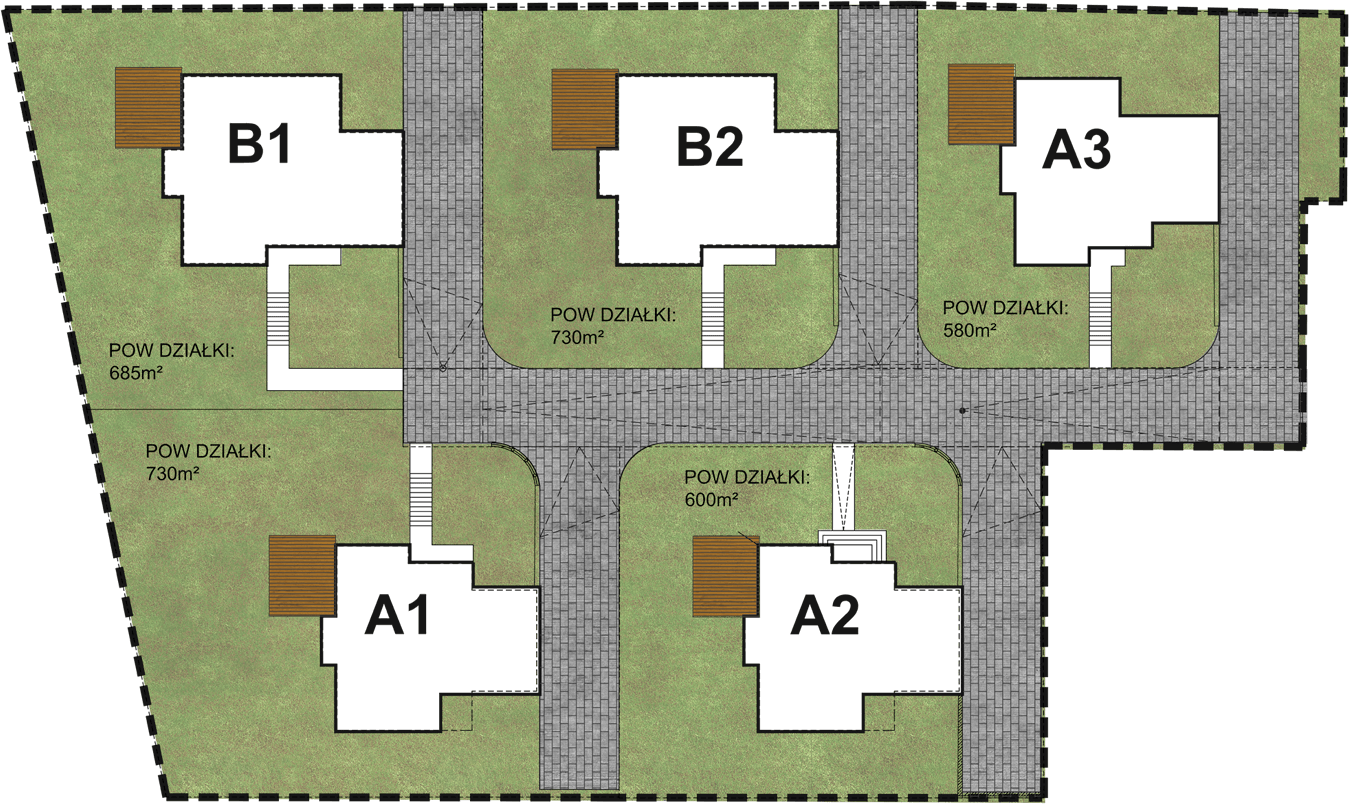
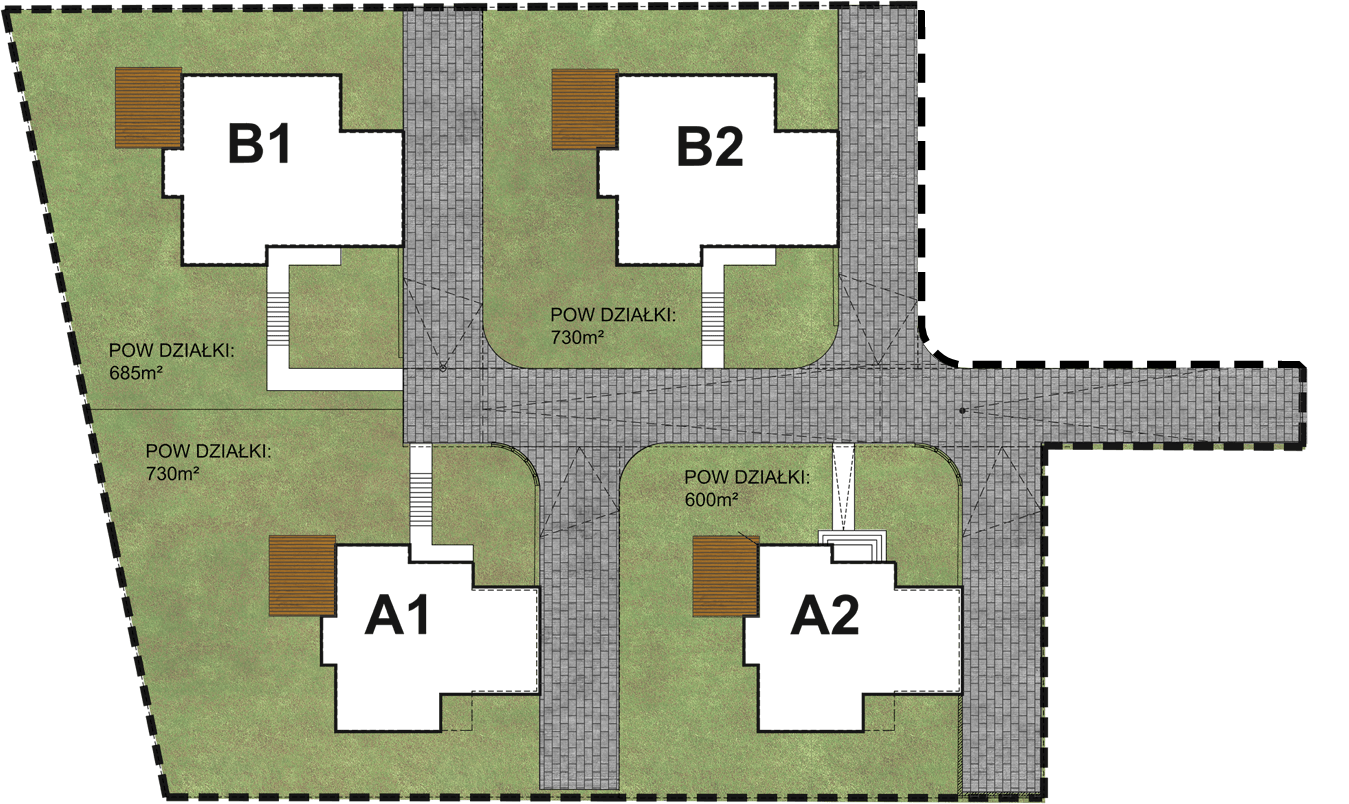
change image map

Changed region(s): [[0.6538, 0.0, 1.0, 0.4664]]

diff --git a/src/index.html b/src/index.html
@@ -181,20 +181,22 @@
       </div>
       <div class="description__text_container container shadow_container">
         <p class="description__text">
-          W najbardziej malowniczym zakątku Woli Justowskiej powstaje osiedle 5 domów jednorodzinnych. Domy położone są
-          na wzgórzu z pięknymi widokami na Kraków oraz okolicę. Dookoła zgodnie z obowiązującym planem zagospodarowania
-          zieleń niezorganizowana. Domy wybudowane są z najlepszych dostępnych na rynku materiałów. W dwóch domach
-          opcjonalnie (do decyzji Nabywców) baseny a w pozostałych jacuzzi.
+          W najbardziej malowniczym zakątku Woli Justowskiej powstaje osiedle 4 domów jednorodzinnych. Każdy z domów ma
+          wydzieloną ogrodzeniem działkę a cała Enklawa ma wspólny wjazd z drogą prowadząca do każdego domu. Domy
+          położone są na wzgórzu z pięknymi widokami na Kraków oraz okolicę. Dookoła górnych domów (A1 i B1) zgodnie z
+          obowiązującym planem zagospodarowania zieleń niezorganizowana. Domy wybudowane są z najlepszych dostępnych na
+          rynku materiałów. W dwóch domach opcjonalnie (do decyzji Nabywców) można wybudować baseny a w pozostałych
+          dwóch jacuzzi.
         </p>
         <p class="description__text">Podstawowe wyposażenie to m.in.:</p>
         <ul class="description__list">
-          <li class="description__list_item">rekuperację Thessla,</li>
-          <li class="description__list_item">klimatyzację,</li>
+          <li class="description__list_item">rekuperacja Thessla,</li>
+          <li class="description__list_item">klimatyzacja,</li>
           <li class="description__list_item">rolety zewnętrzne w oknach,</li>
           <li class="description__list_item">okna z pakietami 3 – szybowymi,</li>
           <li class="description__list_item">centralny odkurzacz,</li>
-          <li class="description__list_item">stację uzdatniania wody,</li>
-          <li class="description__list_item">ogrzewanie podłogowe gazowe w całym domu, w garażu grzejnik panelowy,</li>
+          <li class="description__list_item">stacja uzdatniania wody,</li>
+          <li class="description__list_item">ogrzewanie podłogowe wodne z piecem gazowym Vaillant,</li>
           <li class="description__list_item">system alarmowy,</li>
           <li class="description__list_item">monitoring z nagrywaniem,</li>
           <li class="description__list_item">videodomofon na każdym piętrze</li>
@@ -214,8 +216,8 @@
           xmlns:xlink="http://www.w3.org/1999/xlink"
           x="0px"
           y="0px"
-          viewBox="0 0 1080 643.677"
-          enable-background="new 0 0 1080 643.677"
+          viewBox="0 0 835.331 643.677"
+          enable-background="new 0 0 835.331 643.677"
           xml:space="preserve"
           class="image_map"
         >
@@ -223,7 +225,7 @@
             overflow="visible"
             width="1080"
             height="643.677"
-            xlink:href="./assets/map.png"
+            xlink:href="./assets/map.jpg"
             class="image_map__photo"
           ></image>
           <a xlink:href="./assets/rzutB.pdf" target="_blank">
@@ -232,8 +234,8 @@
               class="image_map__item image_map__item__sold"
               data-house-number="B1"
               fill="#FFFFFF"
-              points="144.192,58.427 273.211,58.427 273.211,103.109 322.641,103.109 322.641,198.337 
-214.287,198.337 214.287,212.58 144.192,212.58 144.192,158.682 128.833,158.682 128.833,117.351 144.192,117.351 "
+              points="147.543,57.082 275.342,57.082 275.342,101.342 324.304,101.342 324.304,195.669 
+              216.975,195.669 216.975,209.777 147.543,209.777 147.543,156.389 132.329,156.389 132.329,115.449 147.543,115.449 "
             />
           </a>
           <a xlink:href="./assets/rzutB.pdf" target="_blank">
@@ -242,8 +244,8 @@
               class="image_map__item"
               data-house-number="B2"
               fill="#FFFFFF"
-              points="492.581,58.427 622.061,58.427 622.061,103.269 671.666,103.269 671.666,198.836 
-	562.926,198.836 562.926,213.13 492.581,213.13 492.581,159.04 477.166,159.04 477.166,117.562 492.581,117.562 "
+              points="488.421,57.082 616.327,57.082 616.327,101.378 665.329,101.378 665.329,195.784 
+              557.911,195.784 557.911,209.904 488.421,209.904 488.421,156.472 473.194,156.472 473.194,115.498 488.421,115.498 "
             />
           </a>
           <a xlink:href="./assets/rzutA.pdf" target="_blank">
@@ -252,9 +254,9 @@
               class="image_map__item"
               data-house-number="A1"
               fill="#FFFFFF"
-              points="256,533.549 267.549,533.549 267.549,586.823 354.353,586.823 354.353,556.834 
-	433.334,556.834 433.334,468.166 379.873,468.166 379.873,448.607 329.579,448.607 329.393,435.01 267.549,435.01 267.548,492.382 
-	256,492.382 "
+              points="258.274,523.086 269.458,523.086 269.458,574.675 353.515,574.675 353.515,545.635 
+	429.997,545.635 429.997,459.772 378.228,459.772 378.228,440.832 329.525,440.832 329.345,427.665 269.458,427.665 
+	269.457,483.222 258.274,483.222 "
             />
           </a>
           <a xlink:href="./assets/rzutA.pdf" target="_blank">
@@ -263,20 +265,9 @@
               class="image_map__item"
               data-house-number="A2"
               fill="#FFFFFF"
-              points="593.667,533.446 605.322,533.446 605.322,587.207 692.917,587.207 692.917,556.943 
-	772.618,556.943 772.618,467.468 718.67,467.468 718.67,447.73 667.917,447.73 667.729,434.01 605.322,434.01 605.322,491.905 
-	593.667,491.905 "
-            />
-          </a>
-          <a xlink:href="./assets/rzutA.pdf" target="_blank">
-            <polygon
-              opacity="0.1"
-              class="image_map__item"
-              data-house-number="A3"
-              fill="#FFFFFF"
-              points="799.333,114.441 810.971,114.441 810.971,60.764 898.43,60.764 898.43,90.98 
-	978.008,90.98 978.008,180.317 924.142,180.317 924.142,200.023 873.468,200.023 873.281,213.724 810.971,213.724 810.971,155.918 
-	799.333,155.918 "
+              points="589.78,524.073 601.081,524.073 601.081,576.196 686.008,576.196 686.008,546.854 
+	763.281,546.854 763.281,460.104 710.977,460.104 710.977,440.968 661.769,440.968 661.587,427.665 601.081,427.665 
+	601.081,483.797 589.78,483.797 "
             />
           </a>
         </svg>
@@ -310,14 +301,6 @@
             <td>297 m2</td>
             <td>124 m2</td>
             <td>600 m2</td>
-            <td>Wolny</td>
-            <td><a href="./assets/rzutA.pdf" target="_blank">PDF</a></td>
-          </tr>
-          <tr class="main-table__row" data-house-number="A3">
-            <td>A3</td>
-            <td>297 m2</td>
-            <td>124 m2</td>
-            <td>580 m2</td>
             <td>Wolny</td>
             <td><a href="./assets/rzutA.pdf" target="_blank">PDF</a></td>
           </tr>
@@ -392,32 +375,32 @@
         <img
           class="gallery__photo photo_gallery__photo"
           src="./assets/malownicza enklawa zdjęcie 1.jpg"
-          alt="Wizualizacja przedstawiająca wygląd zewnętrzny domów inwestycji Malownicza Enklawa. Domy od strony dużego zielonego ogrodu z tarasem."
+          alt="Zdjęcie domu A1 z placu budowy."
         />
         <img
           class="gallery__photo photo_gallery__photo"
           src="./assets/malownicza enklawa zdjęcie 2.jpg"
-          alt="Wizualizacja przedstawiająca wygląd zewnętrzny domów inwestycji Malownicza Enklawa. Dom od strony garażu z podjazdem i ogrodzeniem"
+          alt="Zdjęcie domu A1 z placu budowy."
         />
         <img
           class="gallery__photo photo_gallery__photo"
           src="./assets/malownicza enklawa zdjęcie 3.jpg"
-          alt="Wizualizacja przedstawiająca wygląd zewnętrzny domów inwestycji Malownicza Enklawa. Dom od strony garażu z podjazdem i ogrodzeniem"
+          alt="Zdjęcie domu A1 z placu budowy."
         />
         <img
           class="gallery__photo photo_gallery__photo"
           src="./assets/malownicza enklawa zdjęcie 4.jpg"
-          alt="Wizualizacja przedstawiająca wygląd zewnętrzny domów inwestycji Malownicza Enklawa. Domy widziane z lotu ptaka, widoczne ogrody oraz podjazd."
+          alt="Zdjęcie domu A1 z placu budowy."
         />
         <img
           class="gallery__photo photo_gallery__photo"
           src="./assets/malownicza enklawa zdjęcie 5.jpg"
-          alt="Wizualizacja przedstawiająca wygląd zewnętrzny domów inwestycji Malownicza Enklawa."
+          alt="Zdjęcie domu A1 z placu budowy."
         />
         <img
           class="gallery__photo photo_gallery__photo"
           src="./assets/malownicza enklawa zdjęcie 6.jpg"
-          alt="Wizualizacja przedstawiająca wygląd zewnętrzny domów inwestycji Malownicza Enklawa. Dom widziany od strony dużego zielonego ogrodu z basenem."
+          alt="Zdjęcie domu A1 z placu budowy."
         />
       </div>
 

diff --git a/src/scss/styles.scss b/src/scss/styles.scss
@@ -554,6 +554,7 @@ button {
   background-color: #fff;
   margin-bottom: 80px;
   position: relative;
+  overflow: visible;
 }
 
 .image_map__item {
